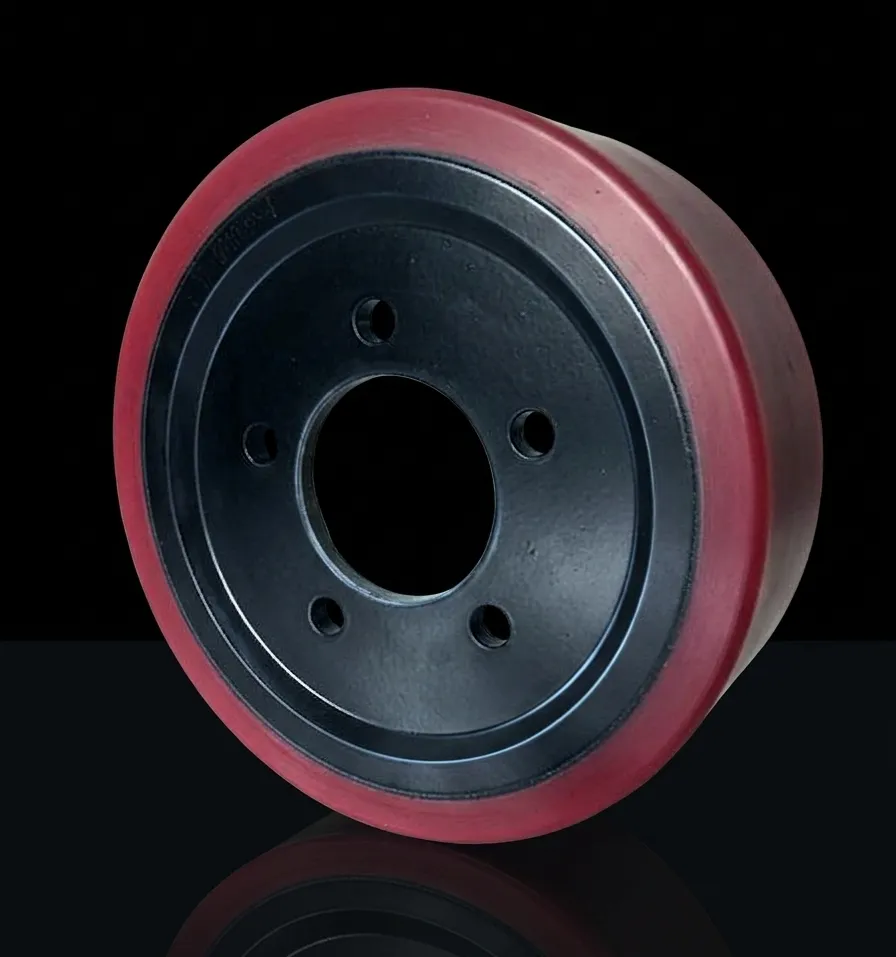
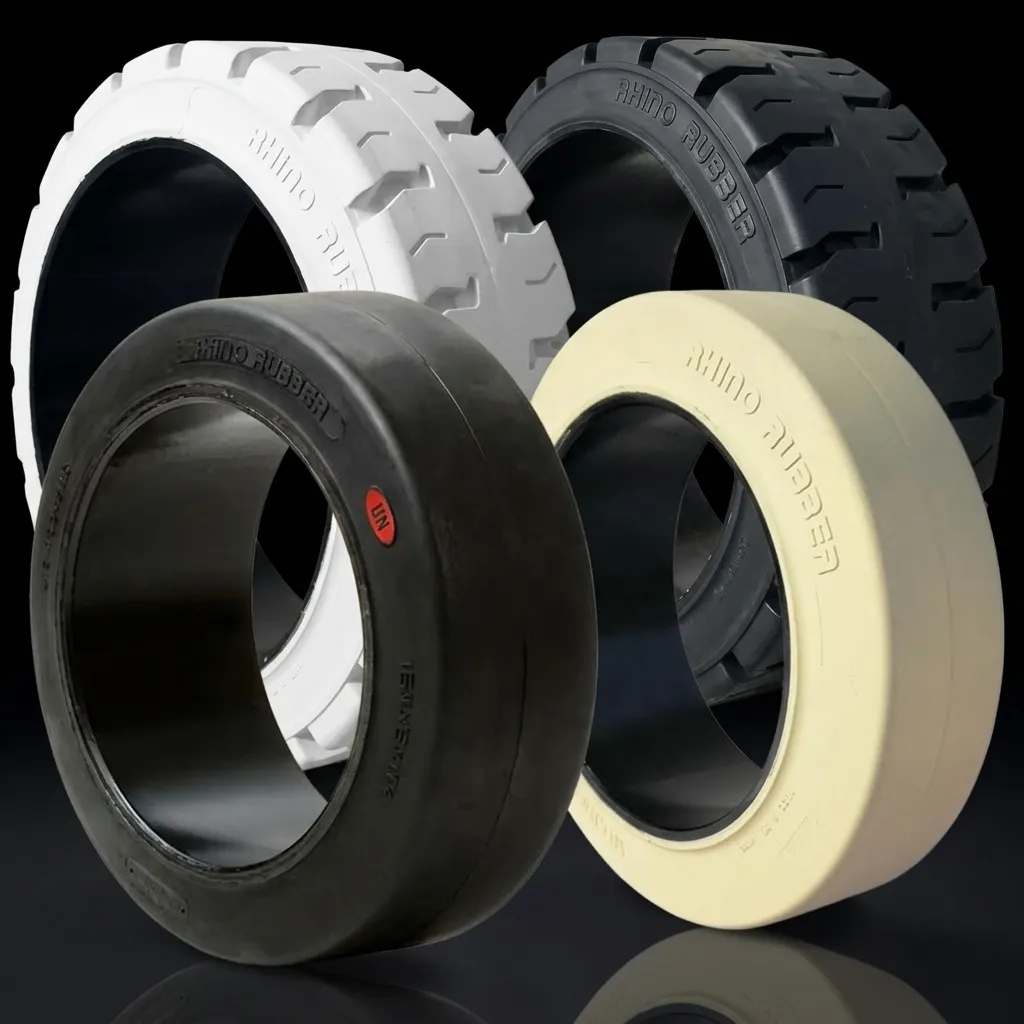
Actualizar especificaciones de productos en productos.html y reemplazar imágenes 10.webp y 3.webp

diff --git a/productos.html b/productos.html
@@ -38,7 +38,7 @@
                 <option value="llantas">Llantas para Grúas</option>
                 <option value="poliuretano">Ruedas de Poliuretano</option>
                 <option value="plataforma">Ruedas Elevador</option>
-                <option value="camaras">Cámara Neumático</option>
+                <option value="montacarga">Ruedas Cushion</option>
             </select>
             <select class="filter-select" id="filterMachinery">
                 <option value="all">Tipo de Maquinaria</option>
@@ -69,9 +69,9 @@
                     <div class="card-back">
                         <h3>Especificaciones Técnicas</h3>
                         <ul class="tech-specs">
-                            <li>Diámetro Externo: <span>423/410 hasta 825 Pulgadas</span></li>
+                            <li>Diámetro: <span>Desde 8 Pulgadas a 20 Pulgadas</span></li>
                             <li>Tipo: <span>Macizo Industrial</span></li>
-                            <li>Compuesto: <span>Caucho Reforzado</span></li>
+                            <li>Compuesto: <span>Caucho Alta Resistencia</span></li>
                             <li>Peso Neto % kg.: <span>14,5/12,2 hasta 132 kg.</span></li>
                         </ul>
                         <a href="contacto.html" class="btn-card-quote">Solicitar Cotización</a>
@@ -94,10 +94,10 @@
                     <div class="card-back">
                         <h3>Especificaciones Técnicas</h3>
                         <ul class="tech-specs">
-                            <li>Diámetro: <span>24 Pulgadas</span></li>
-                            <li>Tipo: <span>Inflado con Cámara</span></li>
-                            <li>Compuesto: <span>Caucho Reforzado</span></li>
-                            <li>Soporte Técnico: <span>Garantía Incluida</span></li>
+                            <li>Diámetro: <span>Desde 8 Pulgadas a 20 Pulgadas</span></li>
+                            <li>Tipo: <span>Inflado Industrial</span></li>
+                            <li>Compuesto: <span>Caucho con capas de Nylon Cruzadas</span></li>
+                            <li>Soporte Técnico: <span>Garantía Permanente</span></li>
                         </ul>
                         <a href="contacto.html" class="btn-card-quote">Solicitar Cotización</a>
                     </div>
@@ -119,10 +119,10 @@
                     <div class="card-back">
                         <h3>Especificaciones Técnicas</h3>
                         <ul class="tech-specs">
-                            <li>Diámetro: <span>15 Pulgadas</span></li>
-                            <li>Tipo: <span>Macizo Industrial</span></li>
-                            <li>Disponibilidad: <span>Inmediata (Stock)</span></li>
-                            <li>Ficha Técnica: <span>PDF Descargable</span></li>
+                            <li>Diámetro: <span>Desde 8 Pulgadas a 20 Pulgadas</span></li>
+                            <li>Tipo: <span>Industrial</span></li>
+                            <li>Compuesto: <span>Chapas desde los 5 mm. hasta 14 mm.</span></li>
+                            <li>Soporte Técnico: <span>Garantía Permanente</span></li>
                         </ul>
                         <a href="contacto.html" class="btn-card-quote">Solicitar Cotización</a>
                     </div>
@@ -145,43 +145,17 @@
                     <div class="card-back">
                         <h3>Especificaciones Técnicas</h3>
                         <ul class="tech-specs">
-                            <li>Diámetro: <span>24 Pulgadas</span></li>
-                            <li>Tipo: <span>Inflado con Cámara</span></li>
-                            <li>Compuesto: <span>Caucho Reforzado</span></li>
-                            <li>Soporte Técnico: <span>Garantía Incluida</span></li>
+                            <li>Diámetro: <span>Desde 80 mm. hasta 350 mm.</span></li>
+                            <li>Tipo: <span>Industrial</span></li>
+                            <li>Compuesto: <span>Poliuretano Alta Calidad-Dureza 92S</span></li>
+                            <li>Soporte Técnico: <span>Garantía Permanente</span></li>
                         </ul>
                         <a href="contacto.html" class="btn-card-quote">Solicitar Cotización</a>
                     </div>
                 </div>
             </div>
 
-            <!-- Tarjeta Producto 5 (Usa imagen 3.webp como ejemplo) -->
-            <div class="flip-card" data-category="macizos" data-machinery="grua">
-                <div class="flip-card-inner">
-                    <div class="card-front">
-                        <div class="img-box"><img src="18.webp" alt="Neumático Sólido Alto Rendimiento"></div>
-                        <div class="card-info">
-                            <div>
-                                <h3>Ruedas Macizas Blancas</h3>
-                                <p>Todas las medidas de ruedas macizas blancas para grúas que no dejan huella.</p>
-                                <p>(Medidas desde 4.00-8 hasta 355/65-15)</p>
-                            </div>
-                        </div>
-                    </div>
-                    <div class="card-back">
-                        <h3>Especificaciones Técnicas</h3>
-                        <ul class="tech-specs">
-                            <li>Diámetro Externo: <span>423/410 hasta 825 Pulgadas</span></li>
-                            <li>Tipo: <span>Macizo Industrial</span></li>
-                            <li>Compuesto: <span>Caucho Reforzado</span></li>
-                            <li>Peso Neto % kg.: <span>14,5/12,2 hasta 132 kg.</span></li>
-                        </ul>
-                        <a href="contacto.html" class="btn-card-quote">Solicitar Cotización</a>
-                    </div>
-                </div>
-            </div>
-
-            <!-- Tarjeta Producto 6 (Usa imagen 7.webp como ejemplo) -->
+            <!-- Tarjeta Producto 5 (Usa imagen 7.webp como ejemplo) -->
             <div class="flip-card" data-category="inflados" data-machinery="agricola">
                 <div class="flip-card-inner">
                     <div class="card-front">
@@ -196,17 +170,17 @@
                     <div class="card-back">
                         <h3>Especificaciones Técnicas</h3>
                         <ul class="tech-specs">
-                            <li>Diámetro: <span>24 Pulgadas</span></li>
-                            <li>Tipo: <span>Inflado con Cámara</span></li>
-                            <li>Compuesto: <span>Caucho Reforzado</span></li>
-                            <li>Soporte Técnico: <span>Garantía Incluida</span></li>
+                            <li>Diámetro: <span>Hasta Aro 24</span></li>
+                            <li>Tipo: <span>Agrícola</span></li>
+                            <li>Compuesto: <span>Caucho con Capas de Nylon Cruzadas</span></li>
+                            <li>Soporte Técnico: <span>Garantía Permanente</span></li>
                         </ul>
                         <a href="contacto.html" class="btn-card-quote">Solicitar Cotización</a>
                     </div>
                 </div>
             </div>
 
-            <!-- Tarjeta Producto 7 (Usa imagen 3.webp como ejemplo) -->
+            <!-- Tarjeta Producto 6 (Usa imagen 3.webp como ejemplo) -->
             <div class="flip-card" data-category="llantas" data-machinery="agricola">
                 <div class="flip-card-inner">
                     <div class="card-front">
@@ -221,10 +195,35 @@
                     <div class="card-back">
                         <h3>Especificaciones Técnicas</h3>
                         <ul class="tech-specs">
-                            <li>Diámetro: <span>15 Pulgadas</span></li>
-                            <li>Tipo: <span>Macizo Industrial</span></li>
-                            <li>Disponibilidad: <span>Inmediata (Stock)</span></li>
-                            <li>Ficha Técnica: <span>PDF Descargable</span></li>
+                            <li>Diámetro: <span>Hasta Aro 24</span></li>
+                            <li>Tipo: <span>Agrícola</span></li>
+                            <li>Compuesto: <span>Chapas desde los 5mm. hasta 10 mm.</span></li>
+                            <li>Soporte Técnico: <span>Garantía Permanente</span></li>
+                        </ul>
+                        <a href="contacto.html" class="btn-card-quote">Solicitar Cotización</a>
+                    </div>
+                </div>
+            </div>
+
+            <!-- Tarjeta Producto 7 (Usa imagen 7.webp como ejemplo) -->
+            <div class="flip-card" data-category="montacarga" data-machinery="grua">
+                <div class="flip-card-inner">
+                    <div class="card-front">
+                        <div class="img-box"><img src="10.webp" alt="Neumático Wonray Agrícola"></div>
+                        <div class="card-info">
+                            <div>
+                                <h3>Ruedas Cushion</h3>
+                                <p>Todas las medidas y marcas de ruedas cushion para montacargas.</p>
+                            </div>
+                        </div>
+                    </div>
+                    <div class="card-back">
+                        <h3>Especificaciones Técnicas</h3>
+                        <ul class="tech-specs">
+                            <li>Diámetro: <span>Desde 6,5 Pulgadas hasta 16 Pulgadas</span></li>
+                            <li>Tipo: <span>Industrial</span></li>
+                            <li>Compuesto: <span>Caucho Alta Resistencia</span></li>
+                            <li>Soporte Técnico: <span>Garantía Permanente</span></li>
                         </ul>
                         <a href="contacto.html" class="btn-card-quote">Solicitar Cotización</a>
                     </div>
@@ -232,57 +231,6 @@
             </div>
 
             <!-- Tarjeta Producto 8 (Usa imagen 7.webp como ejemplo) -->
-            <div class="flip-card" data-category="poliuretano" data-machinery="carro">
-                <div class="flip-card-inner">
-                    <div class="card-front">
-                        <div class="img-box"><img src="10.webp" alt="Neumático Wonray Agrícola"></div>
-                        <div class="card-info">
-                            <div>
-                                <h3>Ruedas de Poliuretano CROWN</h3>
-                                <p>Todas las medidas y marcas de ruedas de poliuretano para carretillas elevadoras.</p>
-                                <p>(Medidas desde 13x5,5x9,5 hasta 343x140)</p>
-                            </div>
-                        </div>
-                    </div>
-                    <div class="card-back">
-                        <h3>Especificaciones Técnicas</h3>
-                        <ul class="tech-specs">
-                            <li>Diámetro: <span>24 Pulgadas</span></li>
-                            <li>Tipo: <span>Inflado con Cámara</span></li>
-                            <li>Compuesto: <span>Caucho Reforzado</span></li>
-                            <li>Soporte Técnico: <span>Garantía Incluida</span></li>
-                        </ul>
-                        <a href="contacto.html" class="btn-card-quote">Solicitar Cotización</a>
-                    </div>
-                </div>
-            </div>
-
-             <!-- Tarjeta Producto 9 (Usa imagen 7.webp como ejemplo) -->
-            <div class="flip-card" data-category="camaras" data-machinery="grua">
-                <div class="flip-card-inner">
-                    <div class="card-front">
-                        <div class="img-box"><img src="22.webp" alt="Neumático Wonray Agrícola"></div>
-                        <div class="card-info">
-                            <div>
-                                <h3>Cámaras Neumáticos</h3>
-                                <p>Todas las medidas y marcas de cámaras para neumáticos de grúas.</p>
-                            </div>
-                        </div>
-                    </div>
-                    <div class="card-back">
-                        <h3>Especificaciones Técnicas</h3>
-                        <ul class="tech-specs">
-                            <li>Diámetro: <span>24 Pulgadas</span></li>
-                            <li>Tipo: <span>Inflado con Cámara</span></li>
-                            <li>Compuesto: <span>Caucho Reforzado</span></li>
-                            <li>Soporte Técnico: <span>Garantía Incluida</span></li>
-                        </ul>
-                        <a href="contacto.html" class="btn-card-quote">Solicitar Cotización</a>
-                    </div>
-                </div>
-            </div>
-           
-           <!-- Tarjeta Producto 10 (Usa imagen 7.webp como ejemplo) -->
             <div class="flip-card" data-category="plataforma" data-machinery="elevador">
                 <div class="flip-card-inner">
                     <div class="card-front">
@@ -298,9 +246,9 @@
                     <div class="card-back">
                         <h3>Especificaciones Técnicas</h3>
                         <ul class="tech-specs">
-                            <li>Diámetro Externo: <span>254 hasta 650 Pulgadas</span></li>
-                            <li>Tipo: <span>Plataforma Elevadora</span></li>
-                            <li>Compuesto: <span>Caucho Macizo</span></li>
+                            <li>Diámetro: <span>Desde las 10 Pulgadas hasta 22 Pulgadas</span></li>
+                            <li>Tipo: <span>Industrial</span></li>
+                            <li>Compuesto: <span>Caucho Alta Resistencia Sin Dejar Huella</span></li>
                             <li>Peso Neto % kg.: <span>7 hasta 55 kg.</span></li>
                         </ul>
                         <a href="contacto.html" class="btn-card-quote">Solicitar Cotización</a>